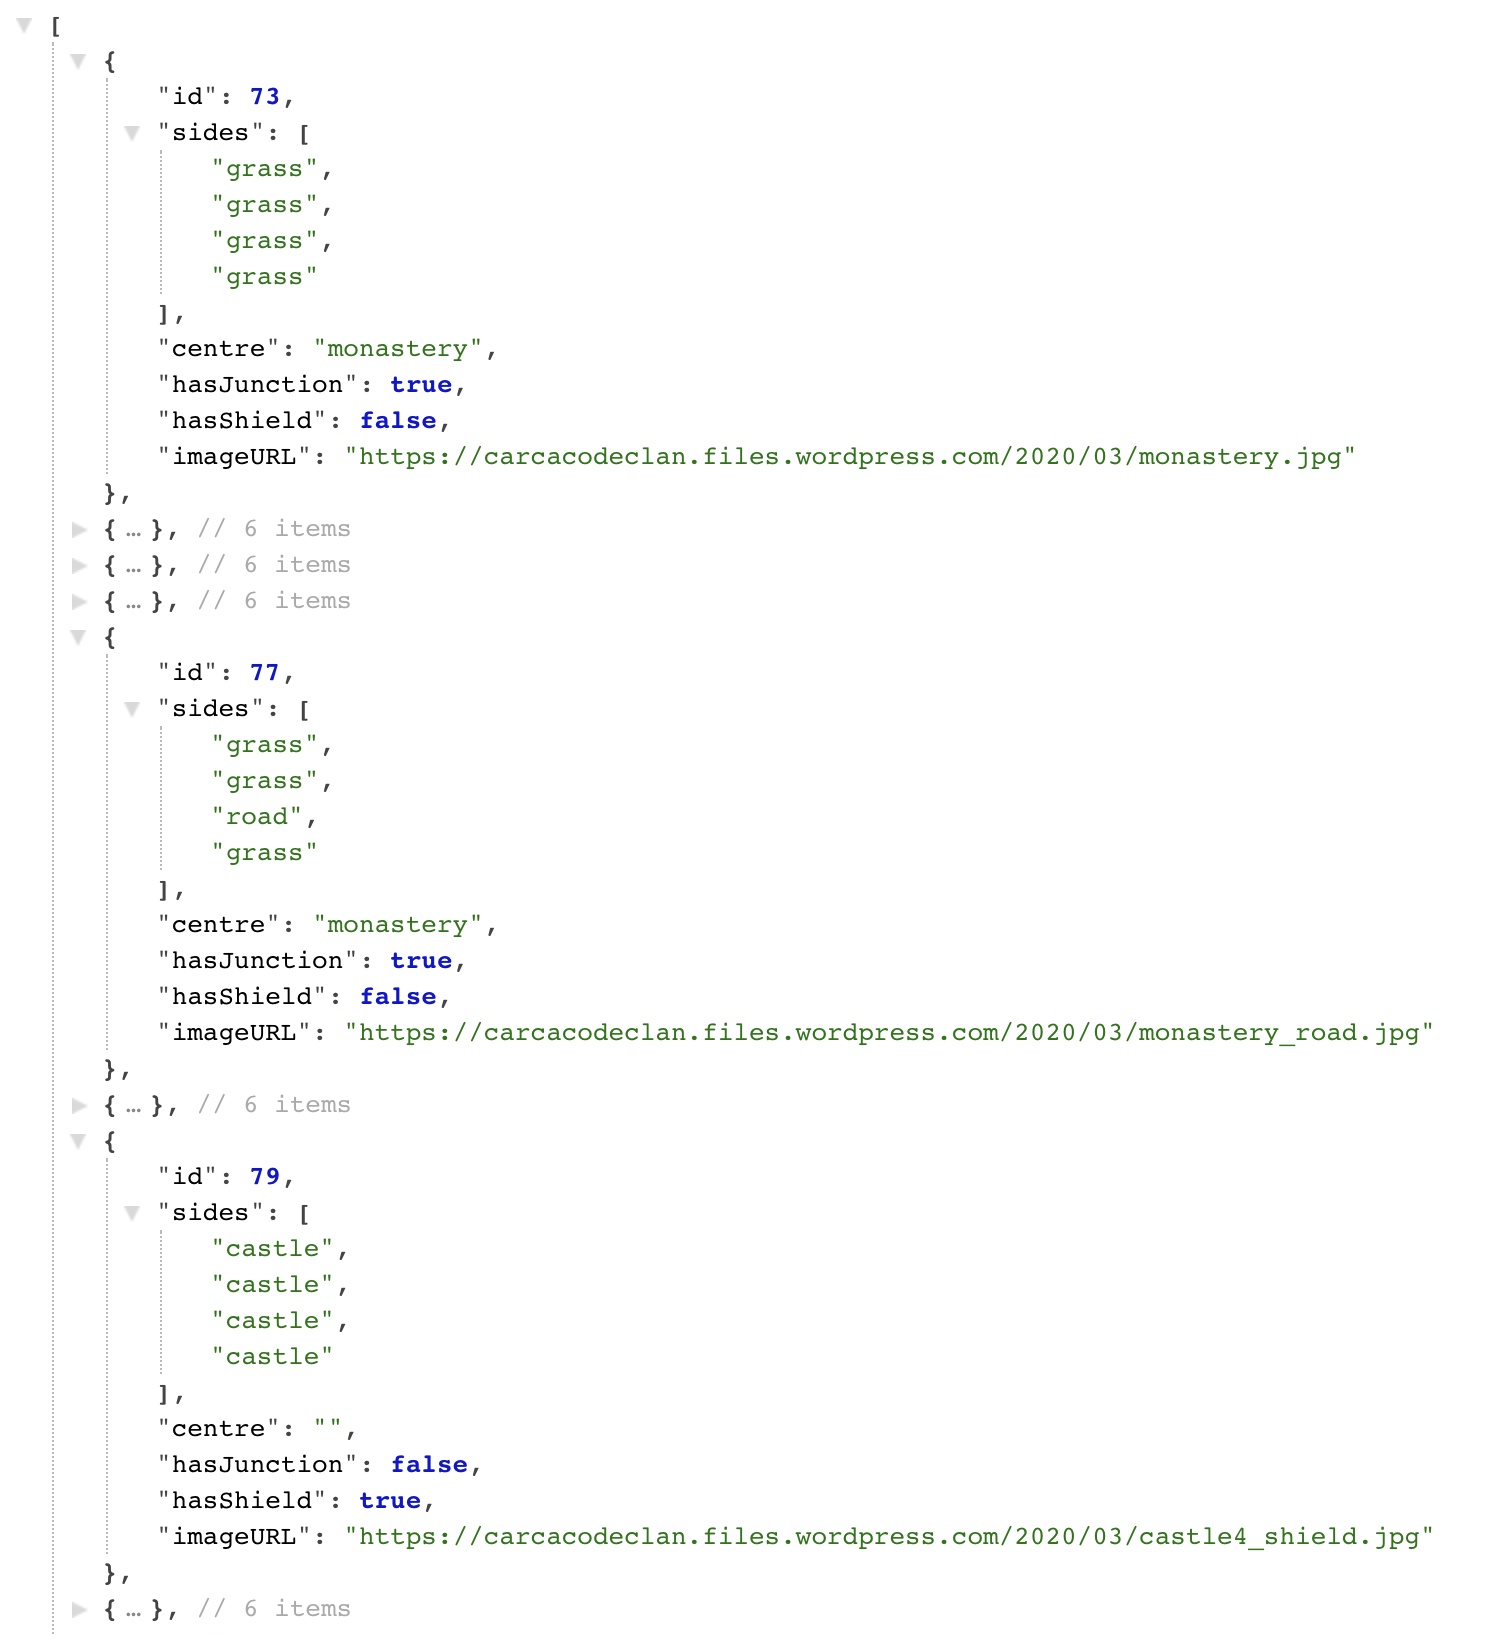
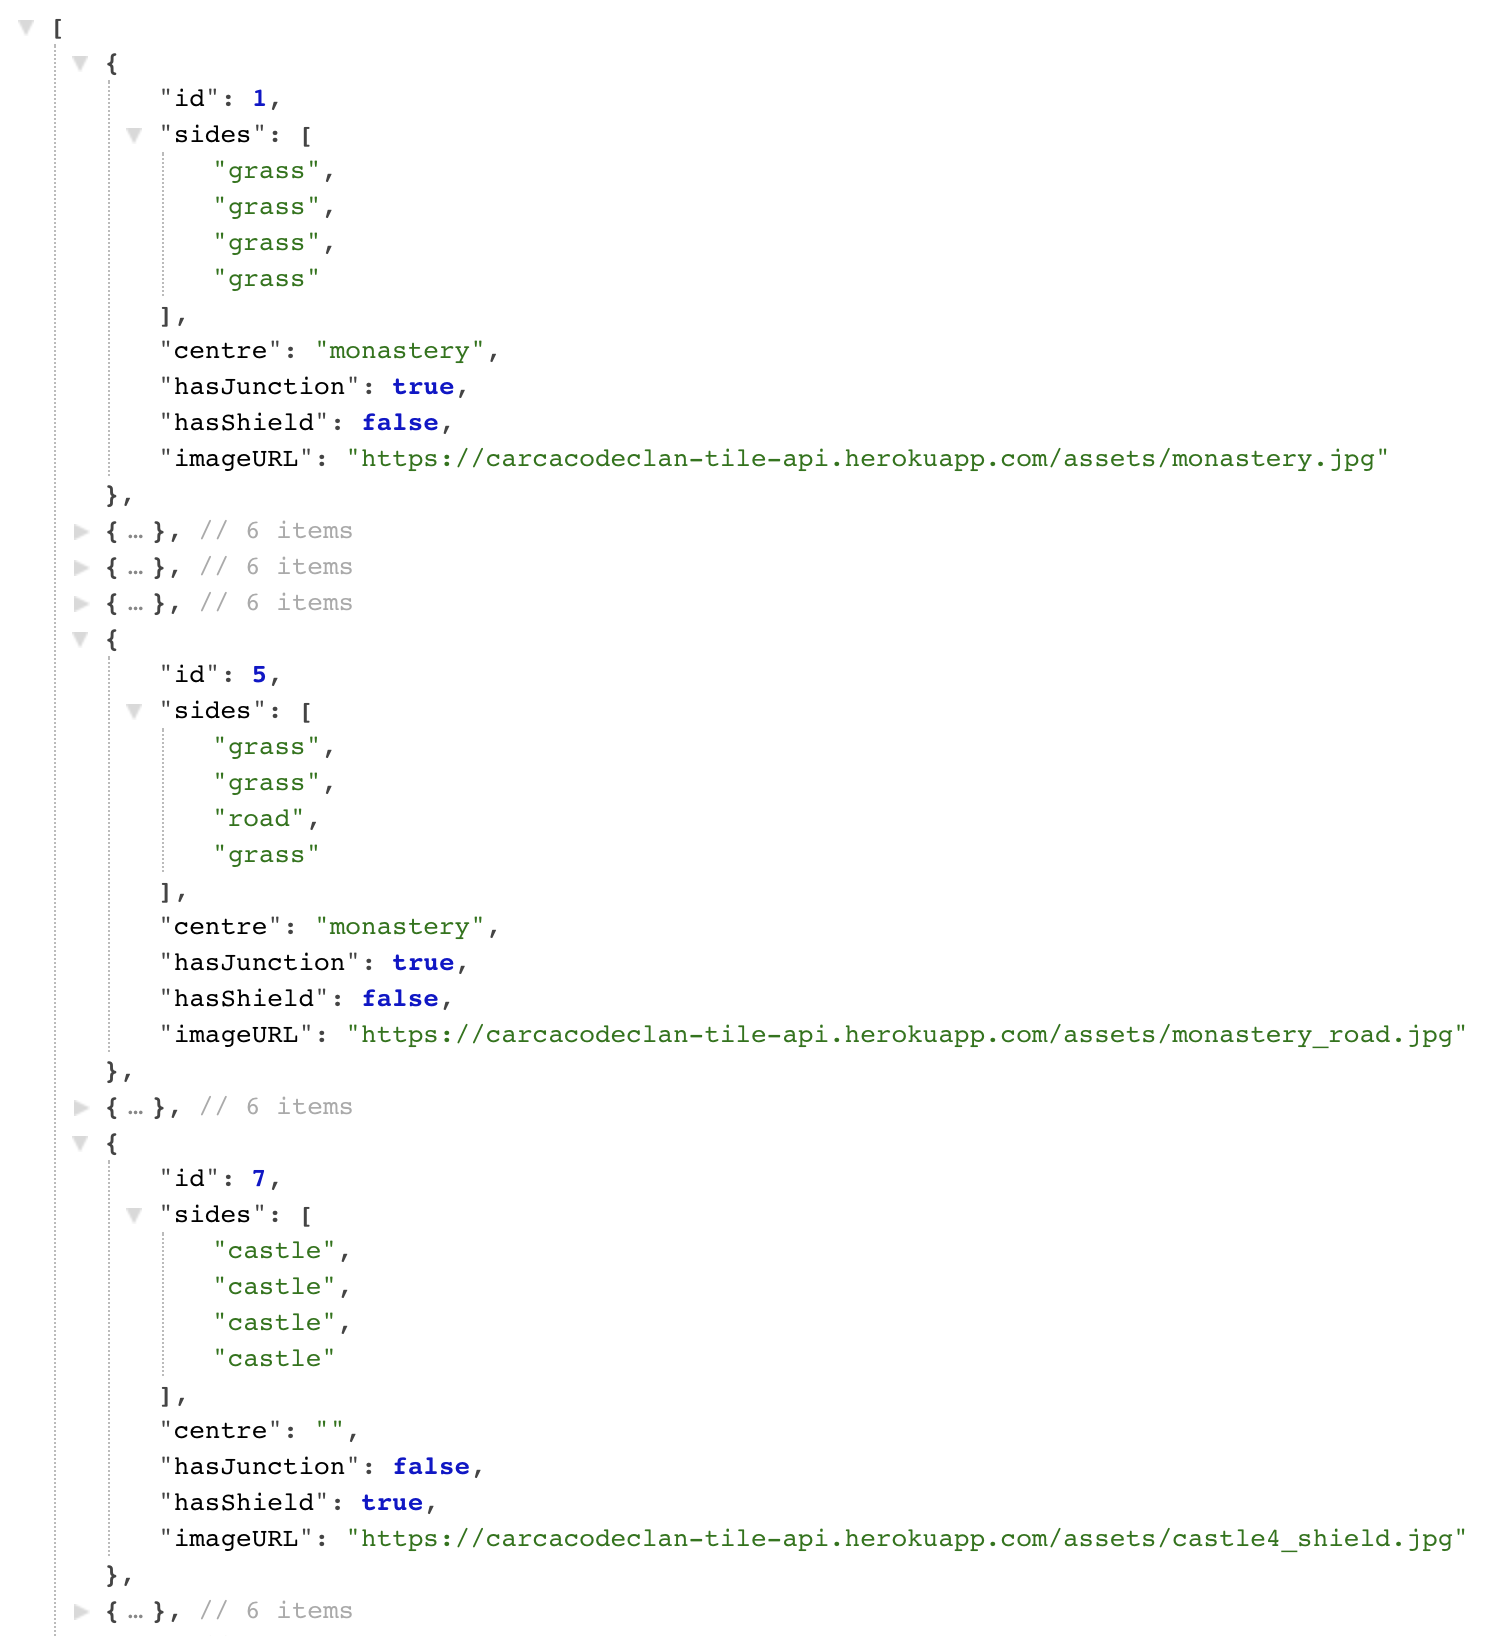
Update readme

diff --git a/README.md b/README.md
@@ -43,8 +43,8 @@ imageURL contains a link to a hosted image for use in the game.
 
 ```JSON
 {
-	"id": 85,
-		"sides": [
+	"id": 13,
+	"sides": [
 		"castle",
 		"castle",
 		"road",
@@ -53,7 +53,7 @@ imageURL contains a link to a hosted image for use in the game.
 	"centre": "",
 	"hasJunction": true,
 	"hasShield": true,
-	"imageURL": "https://carcacodeclan.files.wordpress.com/2020/03/castle3_road_shield.jpg"
+	"imageURL": "https://carcacodeclan-tile-api.herokuapp.com/assets/castle3_road_shield.jpg"
 }
 ```
 
